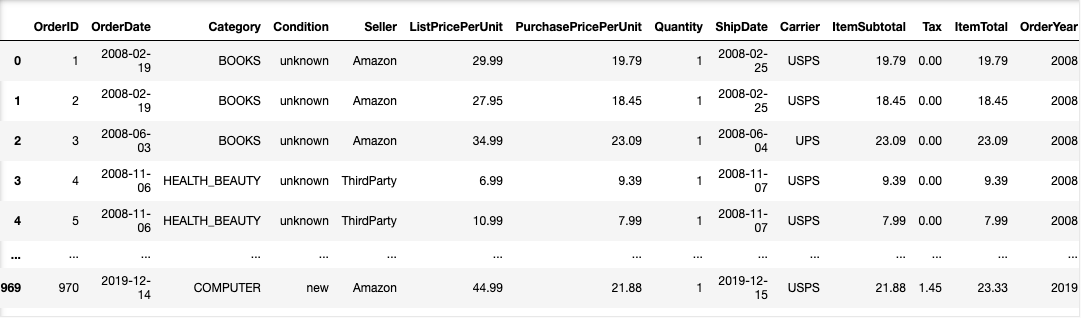
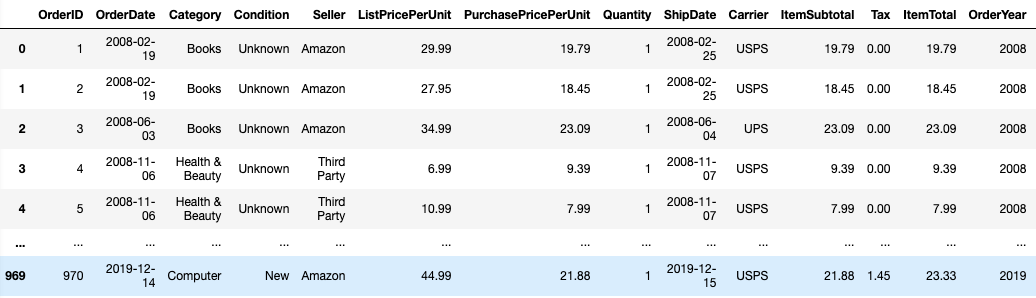
Updated README

diff --git a/README.md b/README.md
@@ -67,7 +67,7 @@ Almost 60% of my transactions were with Amazon as the seller.
 
 ![TransactionsBySeller](img/TransactionsBySeller.png)
 
-But Amazon accounted for 75% of my purchase spend. Perhaps it's the generous returns policy for goods sold directly by Amazon. 
+But Amazon accounted for about 75% of my purchase spend. Perhaps it's the generous returns policy for goods sold directly by Amazon. 
 
 ![PurchasesBySeller](img/PurchasesBySeller.png)
 
